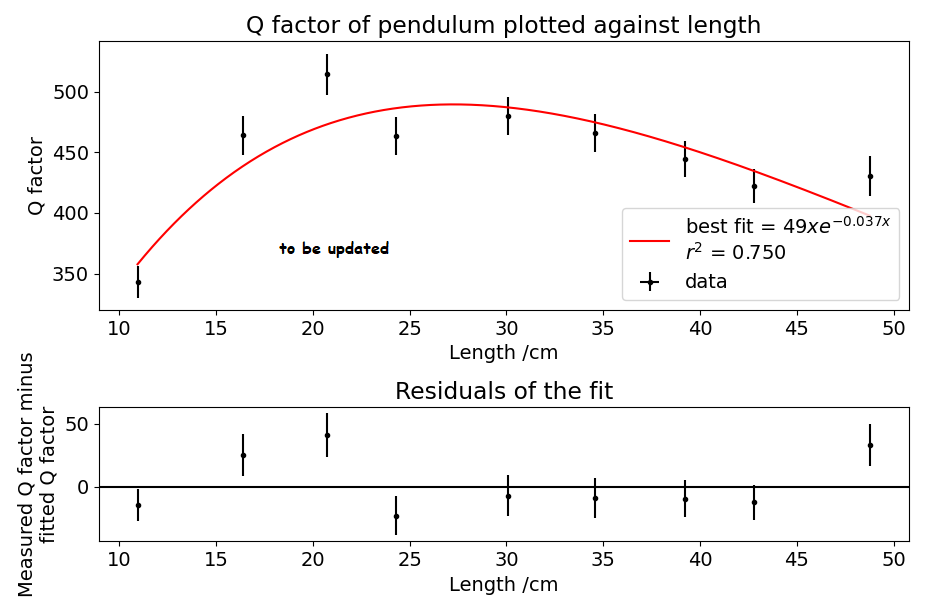
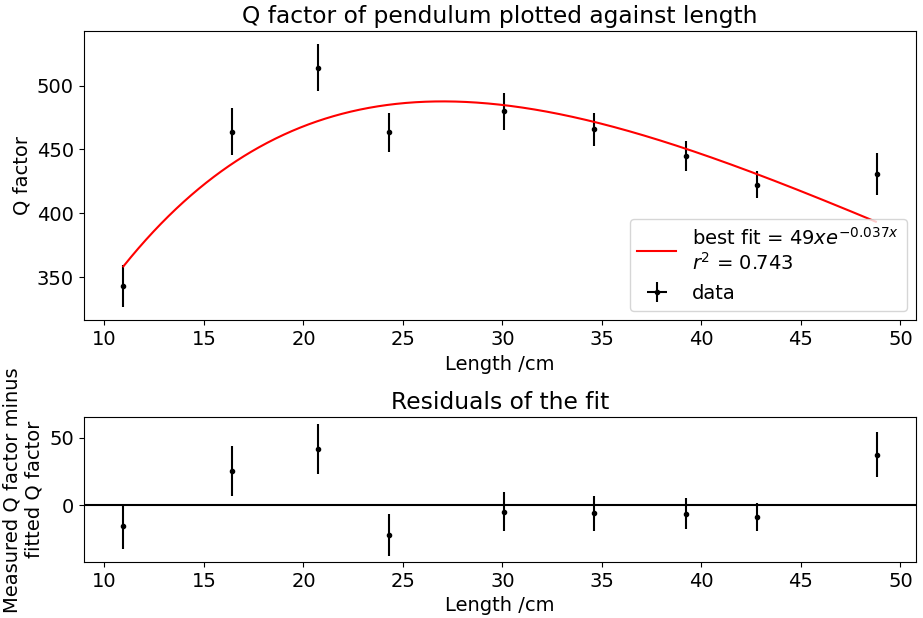
finished draft of lab report except for intro and conclusion

diff --git a/report/lab.tex b/report/lab.tex
@@ -36,12 +36,20 @@
 {\color{blue}The purpose of this lab report is to evaluate the accuracy of various theoretical models used to predict the behaviour of a simple pendulum, namely the relationship between period and release angle, amplitude and time, period and length, and Q factor and length.}
 
 \section{Background} \label{Background}
-A simple pendulum can be defined as a weight suspended via a flexible string, below a pivot point to which it swings back and forth freely along a plane that contains the pivot point. The length of the pendulum is defined as the distance from the pivot point to the weight's center of mass. For a simple pendulum of length $L$ experiencing a downwards force due to gravity $g$, the period $T$, for a release angle $\theta$, is given by the following equation \cite{the-simple-pendulum}, provided that the mass of the string is negligible compared to the mass of the weight:
+A simple pendulum can be defined as a weight suspended via a flexible string, below a pivot point to which it swings back and forth freely along a plane that contains the pivot point. The length of the pendulum is defined as the distance from the pivot point to the weight's center of mass. The following equation is used to describe the simple pendulum released from an angle $\theta$, provided that the mass of the string is negligible compared to the mass of the weight:
 \begin{equation} \label{eq:l-over-g}
     T = 2\pi \sqrt{\frac{L}{g}}
 \end{equation}
-
-
+where:
+{
+\setlength{\abovedisplayskip}{2.5pt}
+\begin{flalign*}
+    \qquad L &= \text{pendulum length in cm} & \\ % \\[-3pt] for paragraphs
+    % \qqquad &\phantom{{}={}} \text{ayo continuation br}\\
+    \qquad g &= \text{acceleration due to gravity in m/s$^2$} & \\
+    \qquad T &= \text{pendulm period in s} &
+\end{flalign*}
+}
 
 More realistically, the behavior of an ideal pendulum assuming no energy loss due to friction can be modelled with a second order differential equation of $\theta$ with respect to $t$:
 \begin{equation} \label{eq:diffeq-pendulum}
@@ -72,7 +80,6 @@ where:
 \begin{flalign*}
     \qquad \theta_0 &= \text{initial release angle in rad} & \\ % \\[-3pt] for paragraphs
     % \qqquad &\phantom{{}={}} \text{ayo continuation br}\\
-    \qquad T &= \text{pendulum's period in s} & \\
     \qquad \phi_0 &= \text{angular phase shift in rad} & \\
     \qquad \tau &= \text{decay constant governing damping} &
 \end{flalign*}
@@ -90,9 +97,14 @@ In order to quantify a pendulum's damping, its Q factor may be used. The Q facto
 
 The Q factor is also defined by the amount of oscillations it takes for the pendulum's amplitude to decay to $e^{-\pi} \approx 4\%$ of its original amplitude during release. Qualitatively, when the Q factor is large, the pendulum comes to rest slower. When the Q factor is small, the pendulum comes to rest quicker.
 
-{\color{blue}
-    Lastly, air resistnace model can be added, which is separate from frictional force.
-}
+Lastly, a model which separates air resistance with string friction may also be defined. That is, the frictional force at the pivot is assumed to be proportional to angular velocity in the simplest case \cite{duke-pendulum}. Given that $\frac{d\theta}{dt} = \omega = v/r$:
+\begin{equation} \label{eq:propto v}
+    F_p \propto v
+\end{equation}
+And air resistance is assumed to be proportional to the pendulum's cross sectional area and velocity squared \cite{airdrag}:
+\begin{equation} \label{eq:propto v2}
+    F_d \propto Av^2
+\end{equation}
 
 \section{Period and Release Angle} \label{sec 3 period and release angle}
 
@@ -196,7 +208,7 @@ The best-fit equation in Figure \ref{fig:figure 4} is modelled by Equation \ref{
 
 Following a similar analysis to that of Section \ref{sec 3.3 analysis}, the calculated value for $\theta_0$ falls within the range of the measured value for $\theta_0$. Additionally, the very high $r^2$ value combined with small and consistent residuals suggests that damped harmonic motion, the model used in Equation \ref{eq:amplitude-function}, provides a good fit for the data.
 
-Given Equation \ref{eq:q-factor-formula} and a  value for $T$ and $\tau$ with their uncertainties, the $Q$ factor is calculated to be $480 \pm 5$, with its uncertainty taking on the higher percent uncertainty of $T$ and $\tau$.
+Given Equation \ref{eq:q-factor-formula} and a  value for $T$ and $\tau$ with their uncertainties, the $Q$ factor is calculated to be $480 \pm 14$, with its uncertainty taking on the higher percent uncertainty of $T$ and $\tau$.
 
 Another way of determining the Q factor is by counting the number of oscillations as outlined in Section \ref{Background}.
 
@@ -211,7 +223,7 @@ Although both methods yield the same value for Q factor, the counting method is 
 \section{Period and Length} \label{sec 5 period and length}
 
 \subsection{Experimental Setup}
-The same pendulum and experimental setup in section \ref{sec 4 Finding the Q Factor} Figure \ref{fig:figure 3} was used to collect data for 9 different lengths ranging from around $10\,$cm to $50\,$cm.
+The same pendulum and experimental setup in section \ref{sec 4 Finding the Q Factor}. Figure \ref{fig:figure 3} was used to collect data for 9 different lengths ranging from around $10\,$cm to $50\,$cm.
 
 The angle formed by the ``V'' shape was kept at $60^\circ$ for all lengths due to ease of setup between trials and also making sure that the dependent variable under investigation (period), will only depend on one independent variable (length).
 
@@ -229,12 +241,7 @@ The data collected for the period vs. length graph is shown below:
     \label{fig:figure 6}
 \end{figure}
 
-A tape measure was used to measure the pendulum's length. However, the uncertainty was taken to be double the smallest increment (0.05\,cm) of the tape measure since a double-eneded measurement was used. As in Section \ref{sec 4.2 data}, the period uncertainty was taken to be 1/30\,s since the same recording device was used
-
-{\color{blue}
-reference another section for period measurement
-}
-
+A tape measure was used to measure the pendulum's length. However, the uncertainty was taken to be double the smallest increment (0.05\,cm) of the tape measure since a double-ended measurement was used. The period measurement and its uncertainty was measured in the same was as Section \ref{sec 4.2 data}.
 
 \subsection{Analysis}
 The best-fit equation in Figure \ref{fig:figure 6} is modelled by modified version of Equation \ref{eq:l-over-g} where:
@@ -265,11 +272,12 @@ Taking log on both sides of Equation \ref{eq:l-over-g} results in an equation in
 \section{Q Factor and Length}
 
 \subsection{Experimental Setup}
-The same setup from Section \ref{sec 4 Finding the Q Factor} and the same lengths from Section \ref{sec 5 period and length} was used to calculate the Q factors.
+The same setup from Section \ref{sec 4 Finding the Q Factor} and the same lengths from Section \ref{sec 5 period and length} were used to collect data for Q factor calculation.
 
-{\color{blue}
 
 \subsection{Data}
+THe data collected for Q factor vs length is shown below:
+
 The Q factor for every length was calculated by using Equation \ref{eq:q-factor-formula} with generated values of $\tau$ and $T$ as demonstrated in Section \ref{sec 4 Finding the Q Factor} because the uncertainty is smaller in general. the Q factors for all 9 lengths is shown below with a line of best fit:
 
 \begin{figure}[H]
@@ -279,17 +287,34 @@ The Q factor for every length was calculated by using Equation \ref{eq:q-factor-
     \label{fig:figure 8}
 \end{figure}
 
-\subsection{Analysis}
-The Q factor seems to peak at a certain point, which could be explained by the following. When the pendulum length is small, the force of air resistance plays less of a role than the force of friction at the end of the string and within the string fibers. When the pendulum length is long, the force of air resistance plays more of a role than all forces of friction within the string. This is because for a longer string released at the same angle as a smaller string, more gravitational potential energy gets converted to kinetic energy, implying a higher speed and even higher force of drag since its porportional to $v^2$ \cite{airdrag}. Additionally, the weight of the string starts to not be negligible when the pendulum length is long, as the pendulum stop behaving like a simple pendulum and the string also contributes to a surface area that experiences drag.
+Calculations for each length and its uncertainty was outlined in Section \ref{sec 5 period and length}. The Q factors and their uncertainties for each length was calculated by using Equation \ref{eq:q-factor-formula} instead of the counting method to reduce uncertainty.
 
-Modelling the Q factor graph in terms of a exponential, quadratic, sinusoidal, or power law function makes zero sense because intuitively, the Q factor should be 0 when the string length equals 0, and the Q factor should approach 0 when the string length is extremely long. A function that seems to satisfy these constraints is given by
+\subsection{Analysis}
+Unlike previous graphs, the Q factor seems to be a lot more erratic. This results in a best-fit line that doesn't fit nearly as perfect, as suggested by the somewhat low $r^2$ value, and residuals that are both large and inconsistent. However a general increasing-decreasing trend can be identified. Starting from with a pendulum length of 10\,cm, the Q factor increases until a maximum in between lengths of 25\,cm-30\,cm then decreases as length increases to 50\,cm. This phenomenon could be explained with Equation \ref{eq:propto v} and Equation \ref{eq:propto v2}.
+
+At any length, $F_p$ and $F_d$ are always acting on the pendulum. However, the way in which they increase differs as length increase. If $F_p = c_1v$ and $F_d = c_2Av^2$ and, these two curves are guaranteed to intersect for some pendulum length. Therefore, towards the left of the intersection point is where $F_p$ dominates, indicated by the increasing behaviour and towards the right of the intersection point is where $F_d$ dominates, indicated by the decreasing behaviour.
+A longer string released at the same angle in comparison to a shorter string will store more gravitational potential energy to be converted to kinetic energy, implying higher tangential velocity. Additionally, a longer string also increases the total surface area subjected to drag
+
+Modelling the Q factor graph in terms of an exponential, quadratic, sinusoidal, or power law function makes zero sense because intuitively, the Q factor should be 0 when the string length equals 0, and the Q factor should approach 0 when the string length approaches infinity. A function that seems to satisfy these constraints, used as the curve of best-fit for Figure \ref{fig:figure 8} is given by:
 \begin{equation} \label{eq:crit-damp}
     Axe^{-bx}
 \end{equation}
-which comes from the general shape of a critically damped oscillating system \cite{crit-damping}, modelling the Q factor graph somewhat nicely with a relatively low $r^2$ value of 0.750
-
-Unfortunately, it cannot be concluded that \ref{eq:crit-damp} is the correct model to represented Q factor in terms of length due to the use of intuition, but it can be concluded that Q factor does depend on pendulum length.
+for $x > 0$ where:
+{
+\setlength{\abovedisplayskip}{2.5pt}
+\begin{flalign*}
+    \qquad A &= 49 \pm 3 & \\ % \\[-3pt] for paragraphs
+    % \qqquad &\phantom{{}={}} \text{ayo continuation br}\\
+    \qquad B &= 0.037 \pm 0.001 & \\
+\end{flalign*}
 }
+
+which comes from the general shape of a critically damped oscillating system \cite{crit-damping}. Given that this curve contains a local maximum, the optimal pendulum length to maximize Q factor given the experimental setup in Figure \ref{fig:figure 3} is estimated to be around 27\,cm.
+
+Due to the use of intuition, it cannot be concluded that Equation \ref{eq:crit-damp} is the correct relationship between Q factor and length, but it serves as a decent model in explaining how Q factor definitely depends on pendulum length.
+
+\section{Conclusion}
+bruh i'll write this some other time
 
 \newpage
 
